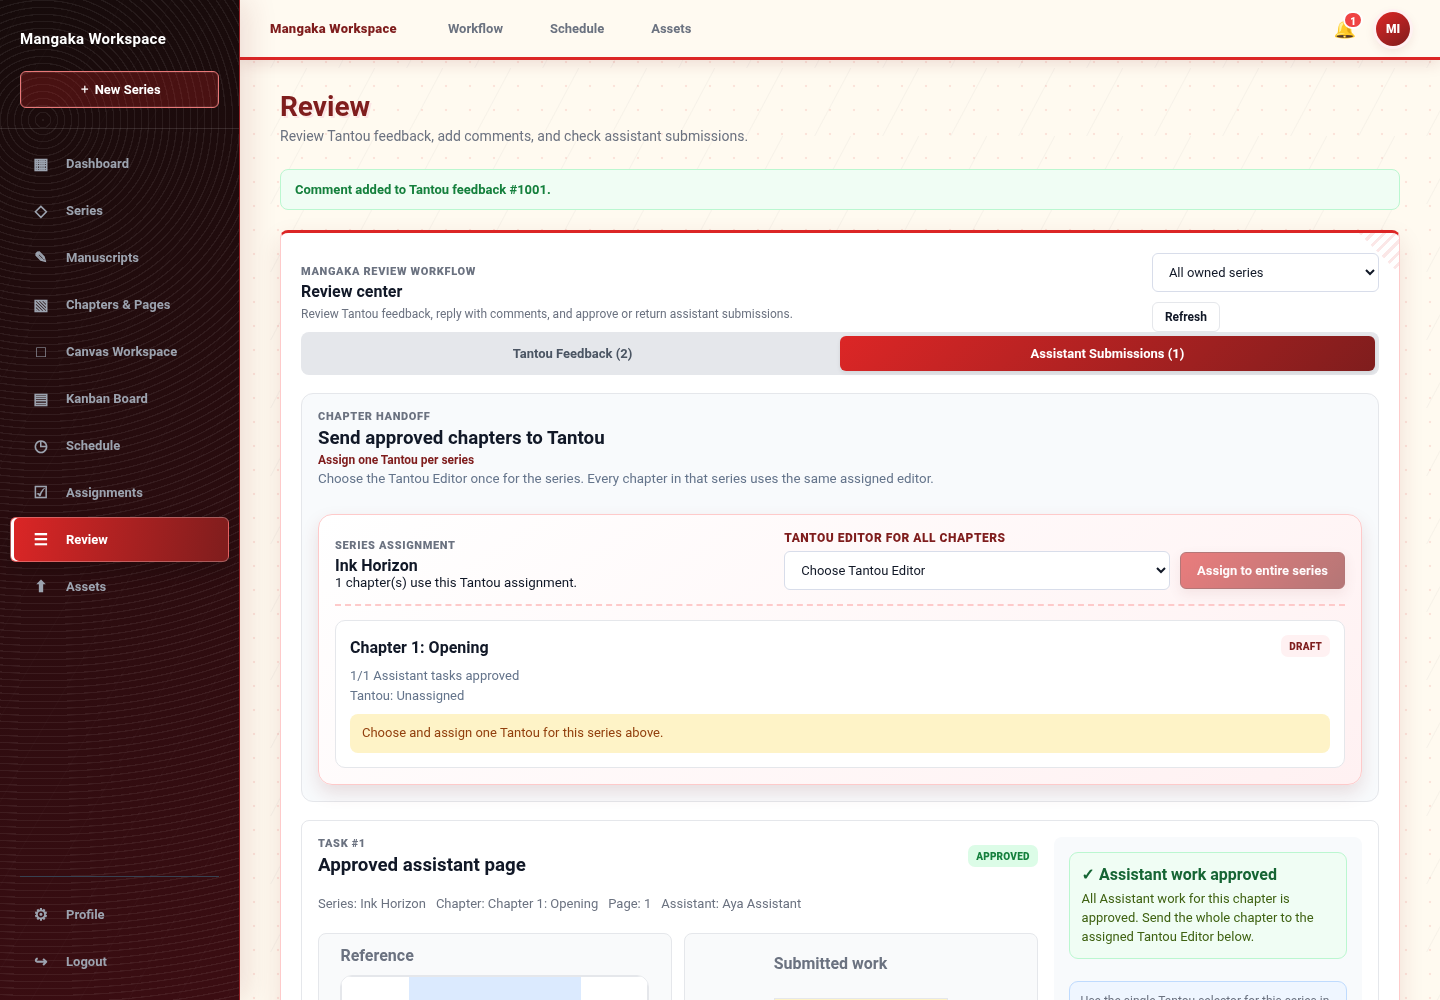
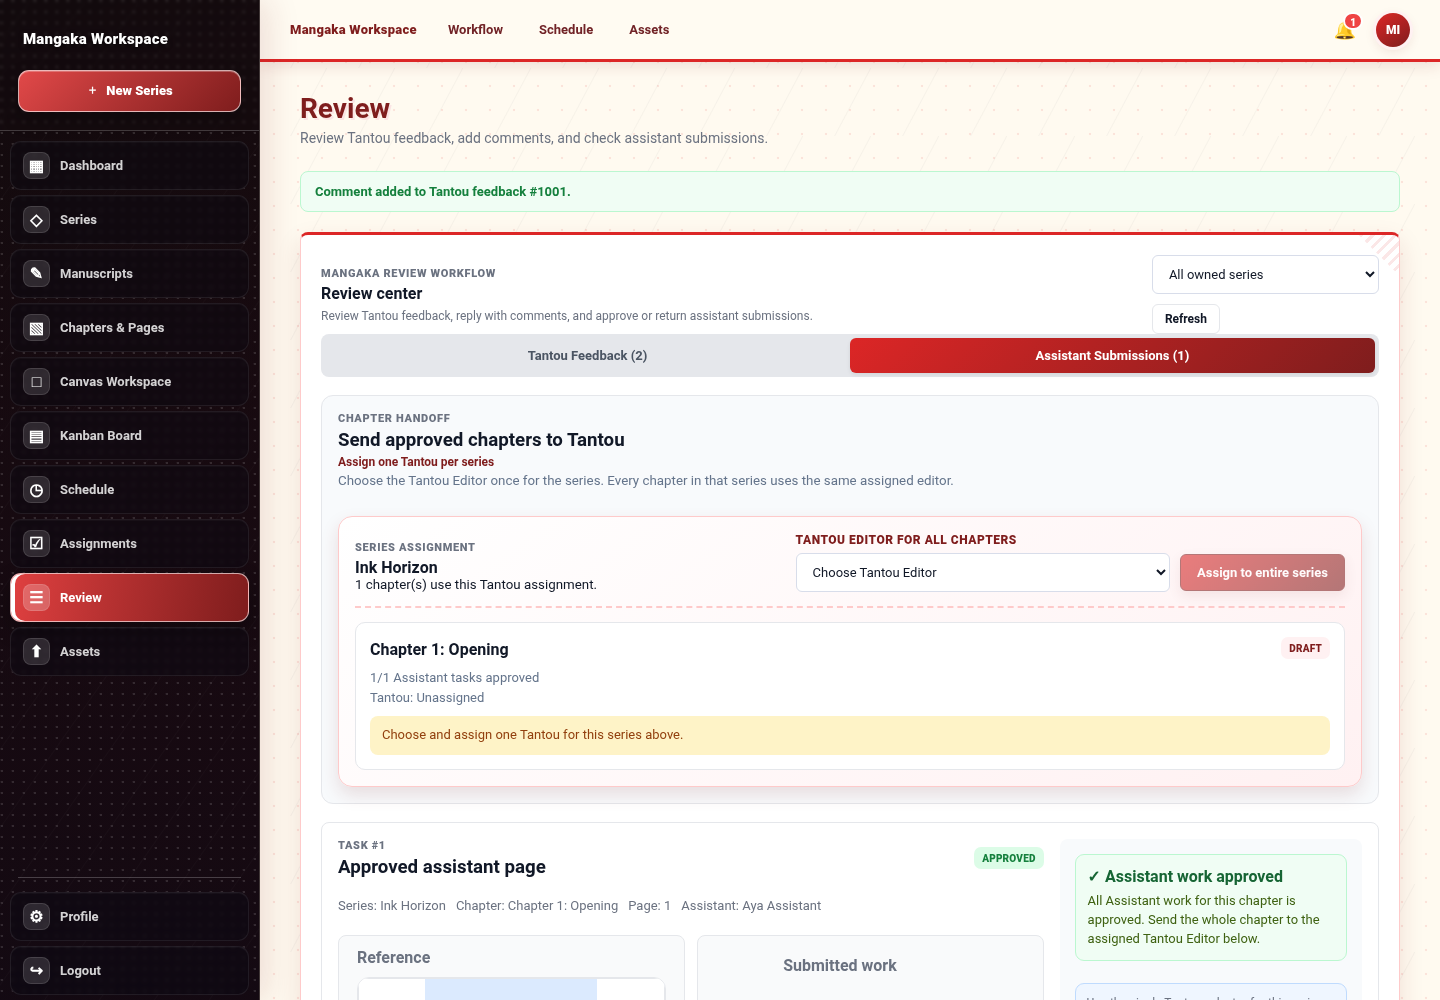
fuix

diff --git a/src/styles.css b/src/styles.css
@@ -10474,3 +10474,338 @@ th { font-size:11px; text-transform:uppercase; color:#6b7280; background:#f9fafb
   overflow-wrap: anywhere;
   line-height: 1.35;
 }
+
+/* =========================================================
+   Role navigation artwork + unified manga navigation styling
+   ========================================================= */
+.feature-screen.mangaka-screen {
+  --role-navigation-art: url("https://res.cloudinary.com/dt1stlhqc/image/upload/v1784219047/Red_Space_wrjdlw.png");
+}
+.feature-screen.assistant-screen {
+  --role-navigation-art: url("https://res.cloudinary.com/dt1stlhqc/image/upload/v1784218480/Green_Space_p4rbuh.jpg");
+}
+.feature-screen.tantou-screen {
+  --role-navigation-art: url("https://res.cloudinary.com/dt1stlhqc/image/upload/v1784219060/Purple_Space_sxkcvt.jpg");
+}
+.feature-screen.board-screen {
+  --role-navigation-art: url("https://res.cloudinary.com/dt1stlhqc/image/upload/v1784219054/Orange_Space_gf3tx5.jpg");
+  --role-paper: #ffd58a;
+  --role-soft: #fff2d8;
+  --role-border: #f5a623;
+  --role-shadow: rgba(194, 91, 0, .20);
+}
+.feature-screen.admin-screen {
+  --role-navigation-art: url("https://res.cloudinary.com/dt1stlhqc/image/upload/v1784219050/Black_Space_zw82an.jpg");
+  --role-accent: #2563eb;
+  --role-accent-dark: #123a8c;
+  --role-soft: #dbeafe;
+  --role-paper: #eaf4ff;
+  --role-border: #93c5fd;
+  --role-shadow: rgba(37, 99, 235, .18);
+}
+
+/* Give every role the same polished sidebar structure. */
+.feature-screen .sidebar {
+  width: 260px;
+  color: rgba(255, 255, 255, .84);
+  background-color: var(--role-sidebar-a);
+  background-image:
+    linear-gradient(180deg, rgba(5, 8, 18, .27) 0%, rgba(5, 8, 18, .73) 100%),
+    var(--role-navigation-art),
+    linear-gradient(165deg, var(--role-sidebar-a), var(--role-sidebar-b));
+  background-repeat: no-repeat, no-repeat, no-repeat;
+  background-position: center, center, center;
+  background-size: cover, cover, cover;
+  border-right: 1px solid rgba(255, 255, 255, .18);
+  box-shadow: 8px 0 30px var(--role-shadow);
+}
+.feature-screen .sidebar::before {
+  opacity: .18;
+  background-image:
+    radial-gradient(circle at 16% 8%, rgba(255,255,255,.72) 0 1px, transparent 1.5px),
+    repeating-linear-gradient(125deg, transparent 0 24px, rgba(255,255,255,.12) 25px, transparent 26px 45px);
+  background-size: 11px 11px, auto;
+}
+.feature-screen .workspace-title {
+  padding: 22px 18px 14px;
+  margin-bottom: 10px;
+  border-bottom: 1px solid rgba(255,255,255,.20);
+  backdrop-filter: blur(1.5px);
+}
+.feature-screen .brand-card.brand-title-only {
+  min-height: 34px;
+  padding: 3px 5px;
+}
+.feature-screen .workspace-title .ws-name {
+  color: #fff;
+  font-size: 15px;
+  font-weight: 900;
+  line-height: 1.2;
+  letter-spacing: .015em;
+  text-shadow: 0 2px 5px rgba(0,0,0,.70);
+}
+
+/* CTA below the Workspace title now matches the Mangaka/Assistant treatment. */
+.feature-screen .btn-sidebar-action,
+.feature-screen .sidebar-cta {
+  min-height: 42px;
+  margin: 14px 0 4px;
+  padding: 10px 13px;
+  display: inline-flex;
+  align-items: center;
+  justify-content: center;
+  gap: 7px;
+  border: 1px solid rgba(255,255,255,.64);
+  border-radius: 11px;
+  background: linear-gradient(135deg,
+    color-mix(in srgb, var(--role-accent) 84%, white),
+    var(--role-accent-dark));
+  color: #fff;
+  font-size: 13px;
+  font-weight: 850;
+  line-height: 1.15;
+  text-align: center;
+  box-shadow: 0 8px 18px rgba(0,0,0,.25), inset 0 1px 0 rgba(255,255,255,.25);
+  transition: transform .16s ease, filter .16s ease, box-shadow .16s ease;
+}
+.feature-screen .btn-sidebar-action:hover,
+.feature-screen .sidebar-cta:hover {
+  border-color: #fff;
+  background: linear-gradient(135deg,
+    color-mix(in srgb, var(--role-accent) 72%, white),
+    var(--role-accent-dark));
+  filter: brightness(1.07);
+  transform: translateY(-1px);
+  box-shadow: 0 10px 22px rgba(0,0,0,.30), inset 0 1px 0 rgba(255,255,255,.35);
+}
+.feature-screen .btn-sidebar-action:focus-visible,
+.feature-screen .sidebar-cta:focus-visible {
+  outline: 3px solid rgba(255,255,255,.70);
+  outline-offset: 2px;
+}
+
+/* Unified navigation buttons for Mangaka, Assistant, Tantou, Board, and Admin. */
+.feature-screen .nav-group {
+  gap: 5px;
+  padding: 0 10px 5px;
+}
+.feature-screen .nav-item {
+  width: 100%;
+  min-height: 43px;
+  margin: 0;
+  padding: 10px 12px;
+  gap: 10px;
+  border: 1px solid rgba(255,255,255,.08);
+  border-radius: 11px;
+  color: rgba(255,255,255,.82);
+  background: rgba(5, 8, 18, .28);
+  box-shadow: inset 0 1px 0 rgba(255,255,255,.03);
+  backdrop-filter: blur(2px);
+  overflow: visible;
+}
+.feature-screen .nav-item i {
+  width: 27px;
+  min-width: 27px;
+  height: 27px;
+  margin-right: 0;
+  display: inline-flex;
+  align-items: center;
+  justify-content: center;
+  border-radius: 8px;
+  color: #fff;
+  background: rgba(255,255,255,.13);
+  box-shadow: inset 0 0 0 1px rgba(255,255,255,.12);
+}
+.feature-screen .nav-item span {
+  min-width: 0;
+  white-space: nowrap;
+  overflow: visible;
+  text-overflow: clip;
+}
+.feature-screen .nav-item:hover {
+  color: #fff;
+  border-color: rgba(255,255,255,.34);
+  background: rgba(255,255,255,.15);
+  transform: translateX(2px);
+}
+.feature-screen .nav-item.active {
+  color: #fff;
+  border-color: rgba(255,255,255,.62);
+  background: linear-gradient(100deg,
+    color-mix(in srgb, var(--role-accent) 88%, white),
+    var(--role-accent-dark));
+  box-shadow: 0 8px 20px rgba(0,0,0,.27), inset 4px 0 0 #fff;
+}
+.feature-screen .nav-item.active i {
+  background: rgba(255,255,255,.22);
+}
+.feature-screen .sidebar-divider {
+  background: rgba(255,255,255,.22);
+  margin: 14px 18px;
+}
+
+/* Make the horizontal navigation consistent for the three management roles too. */
+.feature-screen .topbar {
+  min-height: 62px;
+  background: color-mix(in srgb, var(--role-paper) 90%, white);
+  border-bottom: 3px solid var(--role-accent);
+}
+.feature-screen .topbar-left {
+  gap: 10px;
+  min-width: 0;
+}
+.feature-screen .topbar-left strong {
+  flex: 0 0 auto;
+  margin-right: 8px;
+  white-space: nowrap;
+}
+.feature-screen .topbar-left button {
+  min-height: 34px;
+  padding: 7px 12px;
+  border: 1px solid transparent;
+  border-radius: 999px;
+  color: color-mix(in srgb, var(--role-accent-dark) 82%, #334155);
+  background: transparent;
+  font-weight: 750;
+  transition: background .16s ease, border-color .16s ease, transform .16s ease;
+}
+.feature-screen .topbar-left button:hover {
+  color: var(--role-accent-dark);
+  border-color: var(--role-border);
+  background: var(--role-soft);
+  transform: translateY(-1px);
+}
+
+/* Editorial Voting uses a brighter orange manga-paper field. */
+.feature-screen.board-screen .main-wrapper {
+  background-color: #ffd58a;
+  background-image:
+    radial-gradient(circle at 16px 16px, rgba(255,255,255,.43) 0 2px, transparent 2.5px),
+    repeating-linear-gradient(135deg, rgba(180,83,9,.08) 0 2px, transparent 2px 18px),
+    linear-gradient(145deg, #ffe8b4 0%, #ffc761 52%, #ffad32 100%);
+  background-size: 28px 28px, auto, auto;
+}
+
+/* Admin content gets a blue visual identity while keeping the requested black sidebar art. */
+.feature-screen.admin-screen .main-wrapper {
+  background-color: #eaf4ff;
+  background-image:
+    radial-gradient(circle at 18px 18px, rgba(37,99,235,.13) 0 1.3px, transparent 1.7px),
+    repeating-linear-gradient(45deg, rgba(30,64,175,.045) 0 1px, transparent 1px 16px),
+    linear-gradient(145deg, #f4f9ff 0%, #dbeafe 58%, #bfdbfe 100%);
+  background-size: 26px 26px, auto, auto;
+}
+
+/* Board title stays on one line and receives enough room. */
+.feature-screen.board-screen .sidebar {
+  width: 310px;
+}
+.feature-screen.board-screen .workspace-title .ws-name,
+.feature-screen.board-screen .brand-card.brand-title-only .ws-name {
+  white-space: nowrap;
+  font-size: 14px;
+}
+
+@media (max-width: 1100px) and (min-width: 761px) {
+  .feature-screen .sidebar {
+    width: 245px;
+  }
+  .feature-screen.tantou-screen .sidebar {
+    width: 260px;
+  }
+  .feature-screen.board-screen .sidebar {
+    width: 285px;
+  }
+  .feature-screen .nav-item {
+    padding-inline: 10px;
+  }
+}
+
+@media (max-width: 760px) {
+  .feature-screen .sidebar,
+  .feature-screen.tantou-screen .sidebar,
+  .feature-screen.board-screen .sidebar,
+  .feature-screen.admin-screen .sidebar {
+    width: 100%;
+    background-position: center 38%;
+  }
+  .feature-screen.board-screen .workspace-title .ws-name {
+    white-space: normal;
+  }
+  .feature-screen .topbar-left {
+    flex-wrap: wrap;
+  }
+}
+
+/* Specificity guard: replace the older management-role sidebar overrides. */
+.feature-screen.mangaka-screen .sidebar,
+.feature-screen.assistant-screen .sidebar,
+.feature-screen.tantou-screen .sidebar,
+.feature-screen.board-screen .sidebar,
+.feature-screen.admin-screen .sidebar {
+  color: rgba(255, 255, 255, .84);
+  background-color: var(--role-sidebar-a);
+  background-image:
+    linear-gradient(180deg, rgba(5, 8, 18, .27) 0%, rgba(5, 8, 18, .73) 100%),
+    var(--role-navigation-art),
+    linear-gradient(165deg, var(--role-sidebar-a), var(--role-sidebar-b));
+  background-repeat: no-repeat, no-repeat, no-repeat;
+  background-position: center, center, center;
+  background-size: cover, cover, cover;
+  border-right: 1px solid rgba(255, 255, 255, .18);
+}
+.feature-screen.mangaka-screen .sidebar,
+.feature-screen.assistant-screen .sidebar,
+.feature-screen.admin-screen .sidebar {
+  width: 260px;
+}
+.feature-screen.tantou-screen .sidebar {
+  width: 280px;
+}
+.feature-screen.tantou-screen .workspace-title,
+.feature-screen.board-screen .workspace-title,
+.feature-screen.admin-screen .workspace-title {
+  padding: 22px 18px 14px;
+}
+.feature-screen.tantou-screen .btn-sidebar-action,
+.feature-screen.board-screen .btn-sidebar-action,
+.feature-screen.admin-screen .btn-sidebar-action {
+  border: 1px solid rgba(255,255,255,.64);
+  background: linear-gradient(135deg,
+    color-mix(in srgb, var(--role-accent) 84%, white),
+    var(--role-accent-dark));
+  box-shadow: 0 8px 18px rgba(0,0,0,.25), inset 0 1px 0 rgba(255,255,255,.25);
+}
+.feature-screen.tantou-screen .nav-item.active,
+.feature-screen.board-screen .nav-item.active,
+.feature-screen.admin-screen .nav-item.active {
+  color: #fff;
+  border-color: rgba(255,255,255,.62);
+  background: linear-gradient(100deg,
+    color-mix(in srgb, var(--role-accent) 88%, white),
+    var(--role-accent-dark));
+  box-shadow: 0 8px 20px rgba(0,0,0,.27), inset 4px 0 0 #fff;
+}
+
+@media (max-width: 1100px) and (min-width: 761px) {
+  .feature-screen.mangaka-screen .sidebar,
+  .feature-screen.assistant-screen .sidebar,
+  .feature-screen.admin-screen .sidebar {
+    width: 245px;
+  }
+  .feature-screen.tantou-screen .sidebar {
+    width: 260px;
+  }
+  .feature-screen.board-screen .sidebar {
+    width: 285px;
+  }
+}
+@media (max-width: 760px) {
+  .feature-screen.mangaka-screen .sidebar,
+  .feature-screen.assistant-screen .sidebar,
+  .feature-screen.tantou-screen .sidebar,
+  .feature-screen.board-screen .sidebar,
+  .feature-screen.admin-screen .sidebar {
+    width: 100%;
+  }
+}